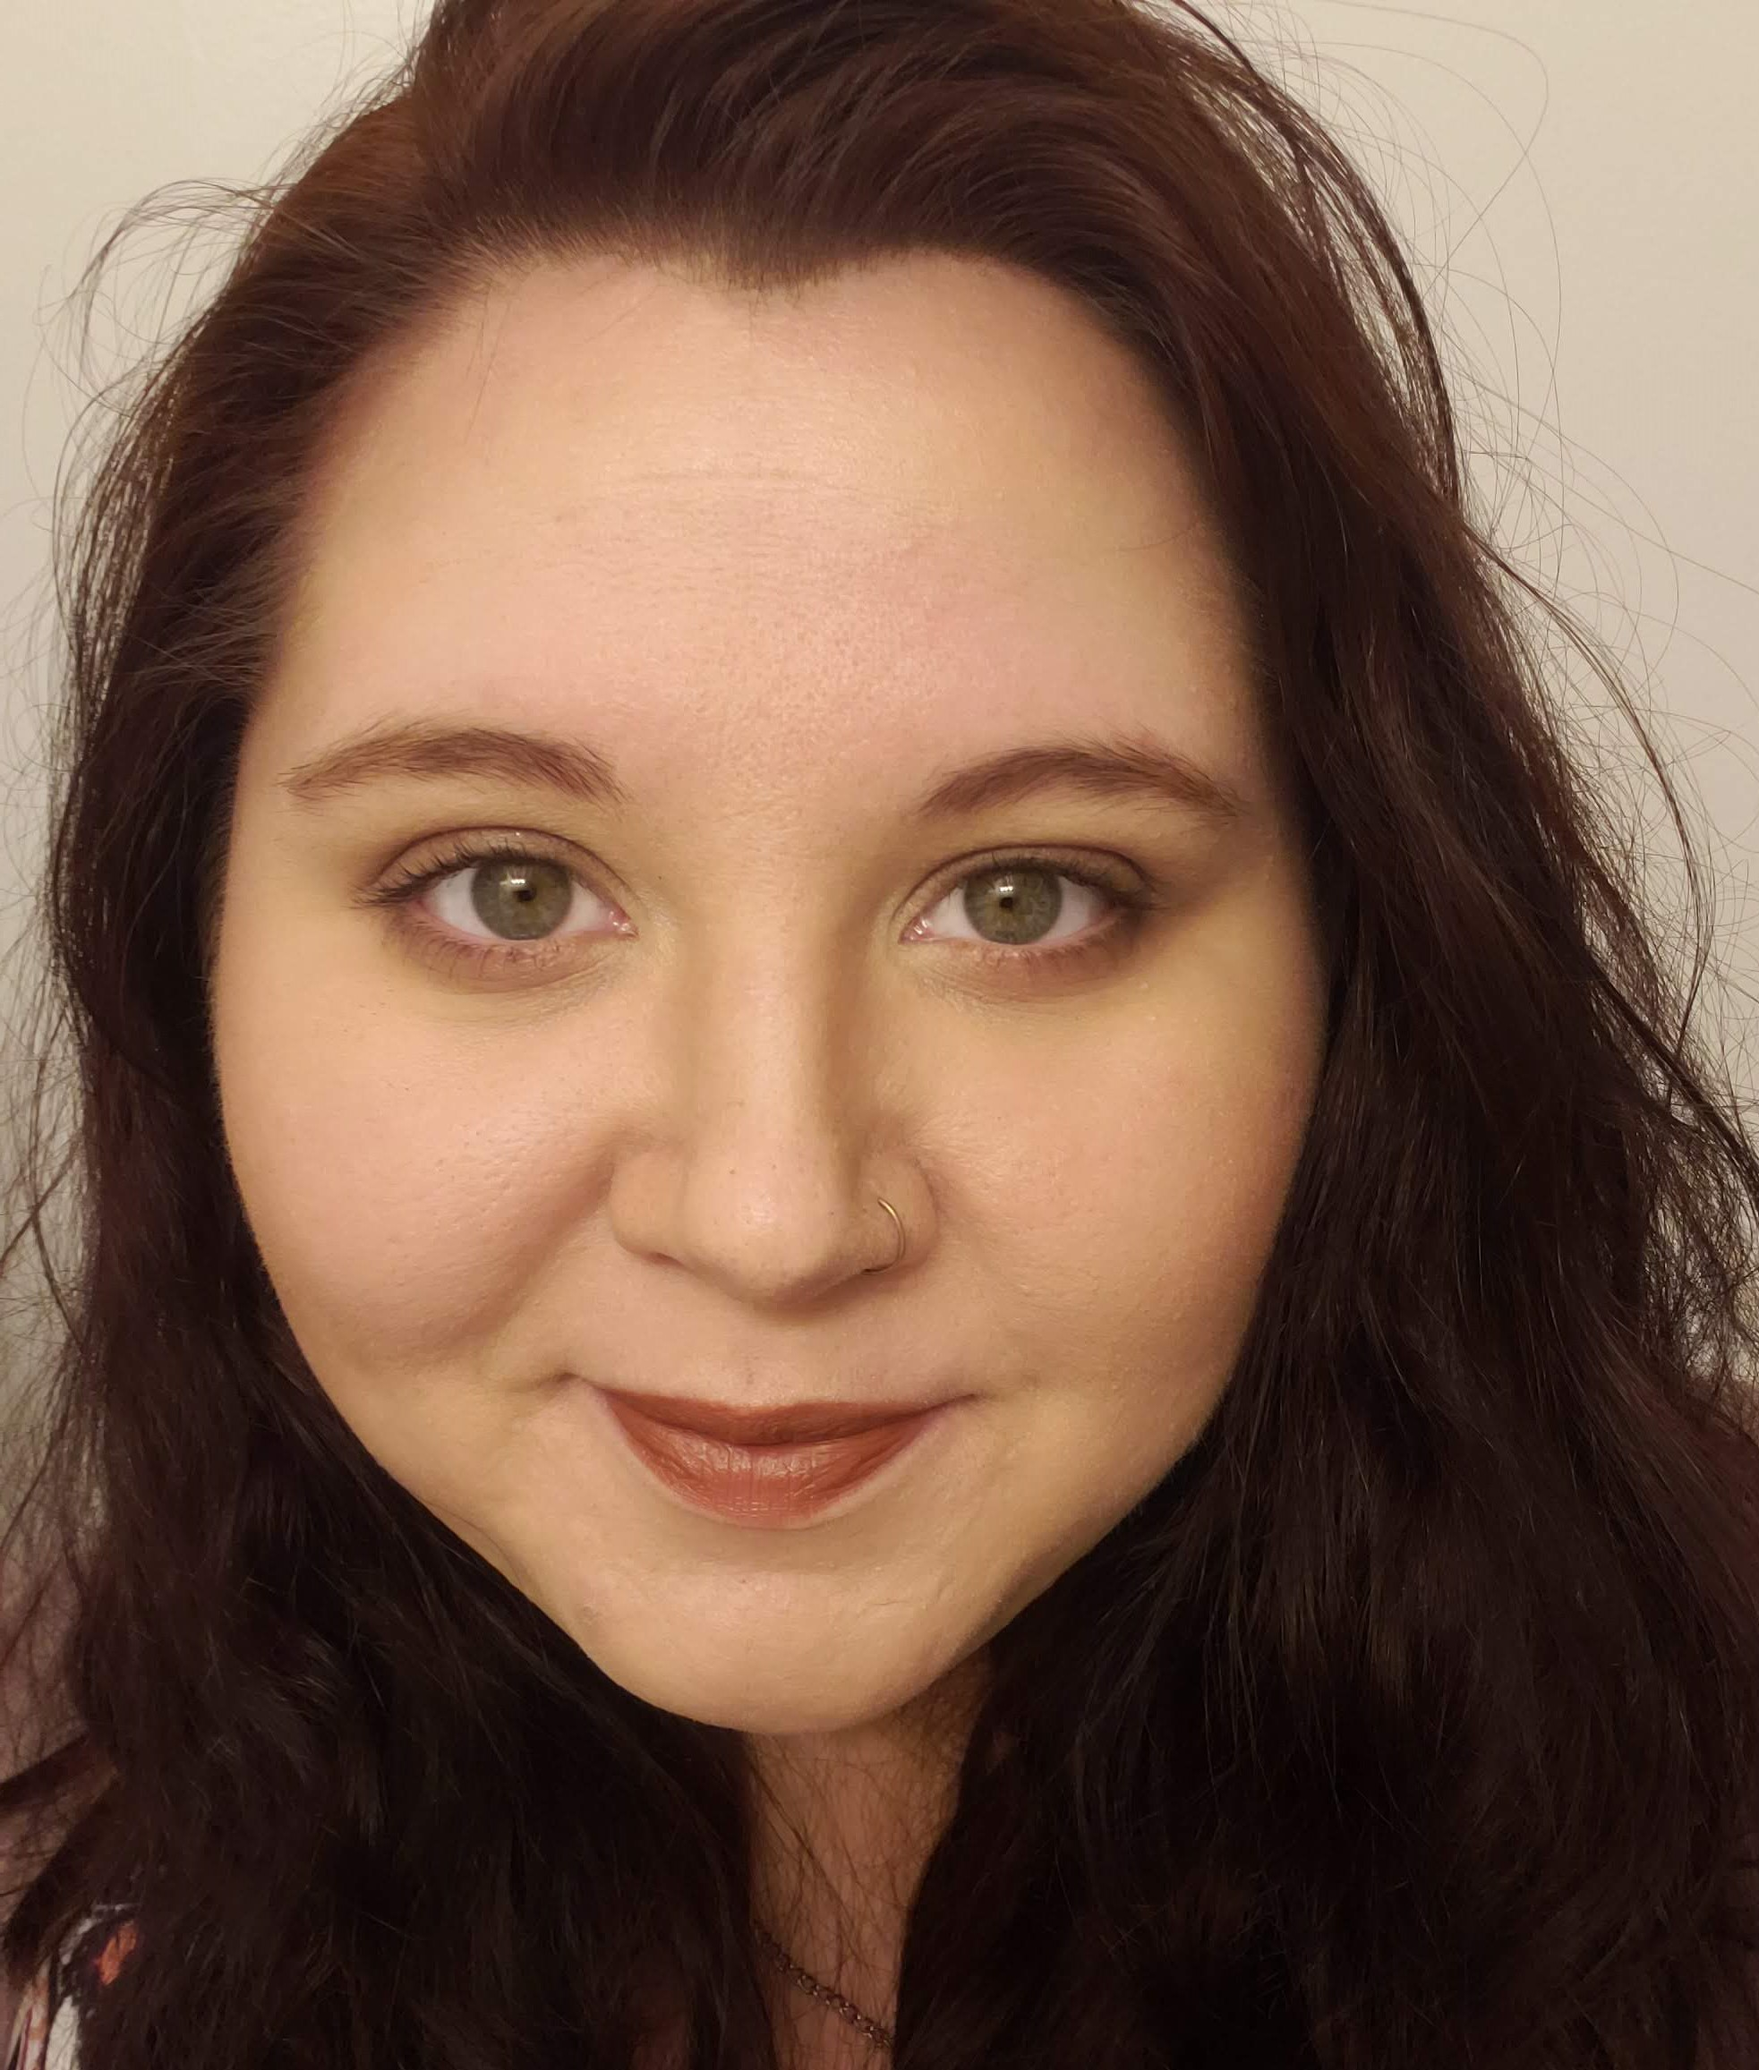
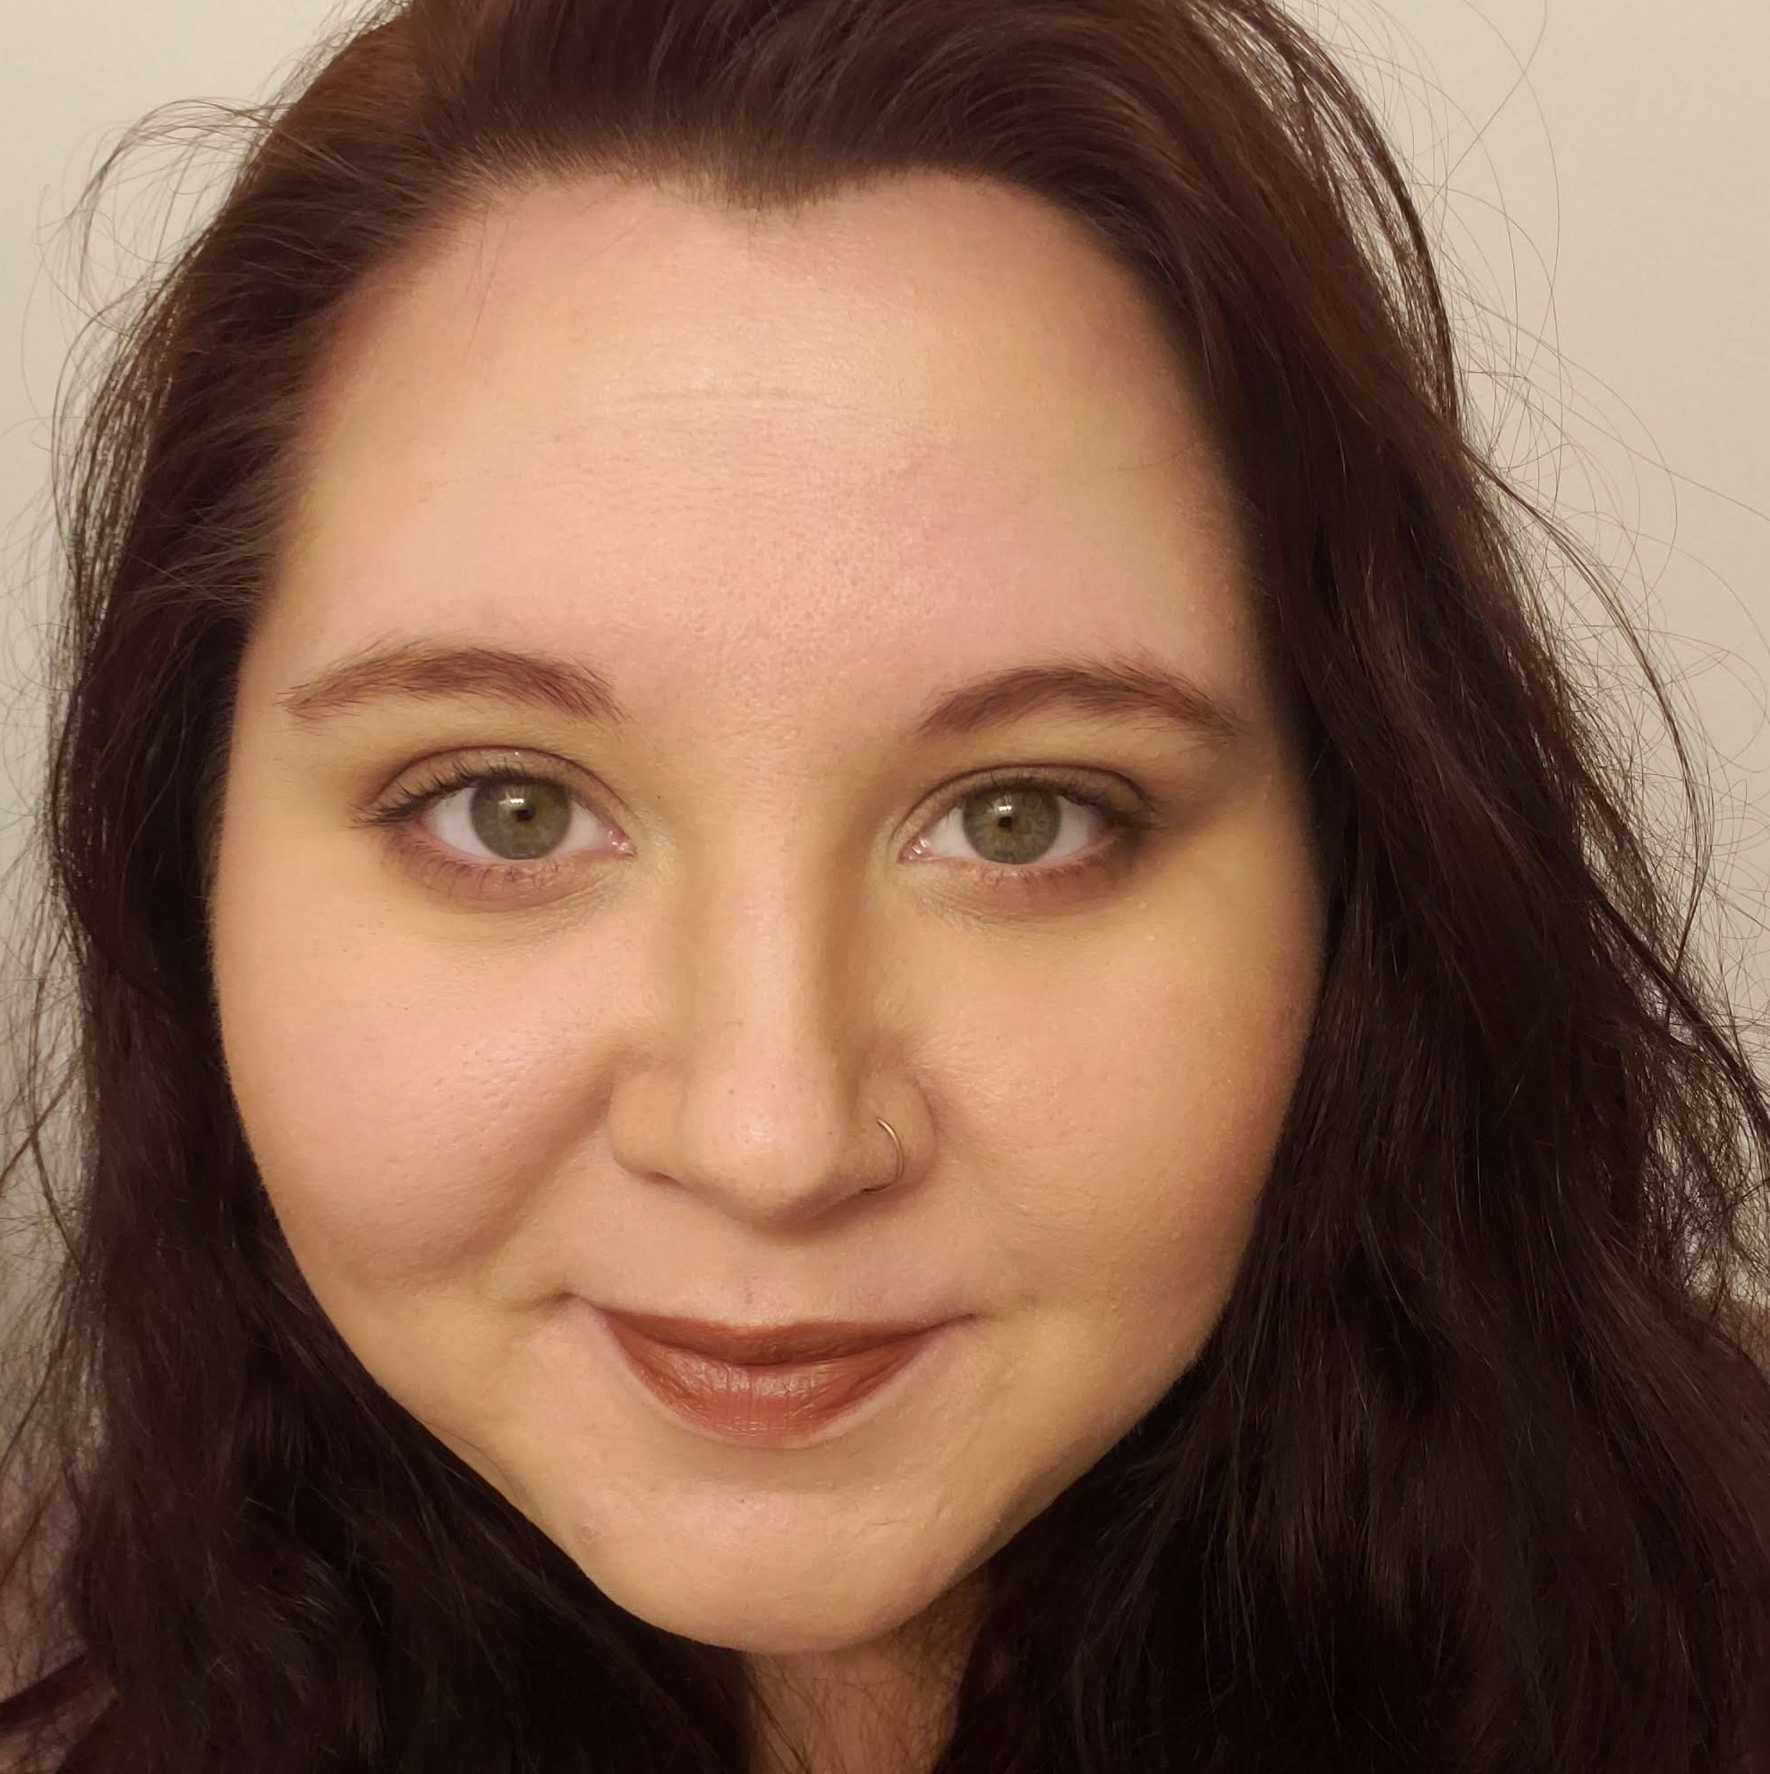
added some js formatting

diff --git a/index_v1.3.html b/index_v1.3.html
@@ -5,6 +5,7 @@
 <meta charset="UTF-8"> <!--unicode encoding-->
 <meta name="viewport" content="width=device-width, initial-scale=1">
 <link rel="stylesheet" href="style.css">
+<script src="script.js"></script>
 </head>
 <body>
 
@@ -16,81 +17,60 @@
   <a href="#" class="active">Home</a>
   <a href="https://github.com/SavLM">GithHub</a>
   <a href="https://www.linkedin.com/in/savannah-mclaurin/">LinkedIn</a>
-  <a href="mailto:savleighm@outlook.com" class="right">Contact Me</a>-->
+  <a href="mailto:savleighm@outlook.com" class="right">Contact Me</a>
 </div>
 
 <div class="row">
   <div class="side">
-    <img src="images\moi.jpg" style="height:200px;"></img>
+    <img class="big_img" src="images\moi.jpg"></img>
   </div>
   <div class="main">
-    <p></p>
     <div id="resume_content">
-      <h1>EDUCATION</h1>
-        <h2>University of Virginia School of Engineering and Applied Science | Class of 2019</h2>
-          <p>Bachelor of Science in Computer Engineering</p>
-        <h2>Jackson River Governor’s School | Class of 2013</h2>
-          <p>2-year program at Dabney S. Lancaster Community College</p>
-        <h2>Bath County High School | Class of 2013</h2>
-          <p>Graduated Salutatorian with an Advanced Diploma</p>
-
-      <br>
-      <br>
-
-      <h1>WORK EXPERIENCE</h1>
-      <h2>Information Technology Assistant Jr. | Federal Reserve Information Technology August 15, 2017 – January 15, 2018</h2>
-        <ul>
-          <li>Project Coordinator and Administrative Assistant for the Federal Reserve’s National IT internship program</li>
-          <li>Aided project transitioning Fed applications and services to a new, secure environment</li>
-          <li>
-            <ul>
-              <li>Performed administrative tasks for Scrum teams</li>
-              <li>Improved organizational tools and documented standards/processes</li>
-              <li>Prepared communications material for senior leadership</li>
-              <li>Transcribed important discussions and outlined/tracked action items</li>
-            </ul>
-          </li>
-        </ul>
-      <h2>Technical Project Assistant | University of Virginia Career Center May 17, 2016 – August 1, 2016</h2>
-        <ul>
-          <li>Assistant for the UVA Career Center IT department</li>
-          <li>Supported the implementation and organization of a new recruiting platform</li>
-          <li>
-            <ul>
-              <li>Aided with the extraction, synthesis, and management of large data sets for transition to new platform</li>
-              <li>Assisted with the development of student/staff/employer training materials</li>
-            </ul>
-          </li>
-        </ul>
-      <h2>Kids Club Attendant | The Omni Homestead Resort December 3, 2011 – June 13, 2015</h2>
-        <ul>
-          <li>3½ years as a Daycare Counselor at the Omni Homestead Resort</li>
-        </ul>
-
-      <br>
-      <br>
-
-      <h1>SKILLS</h1>
-        <h2>Languages</h2>
-          <p>C++, C, Java, Python, CSS, HTML, JavaScript, MySQL, PHP, x86 Assembly</p>
-        <h2>Hardware</h2>
-          <p>Microcontrollers, Designing PCBs,  Hardware testing devices: Oscilloscope, Multisim, Digital Multimeter, Virtual Bench</p>
-        <h2>Applications</h2>
-          <p>JIRA, SharePoint, Visio, Multisim, MATLAB, Logisim, Eclipse, Emacs, Vim, Microsoft Office, Django Framework, Some familiarity with Microsoft Azure Cloud and with AWS</p>
-        <h2>Project Management</h2>
-          <p>Risk and Issue tracking, Action Item logging,  User Story writing, Scribing for meetings, Creating Gantt Charts</p>
-
-      <br>
-      <br>
-
-      <h1>LEADERSHIP/TEAM EXPERIENCE</h1>
-        <h2>Capstone Project Team Member (Fall of 2016)</h2>
-          <p>5-month long Senior Project with a team of 4 other Computer/Electrical Engineering students developing a vest designed to assist individuals with visual impairments navigate the real world using spatial simulation powered by a system of infrared sensors causing haptic feedback.</p>
-        <h2>Cavalier Marching Band Member (2013-2014)</h2>
-          <p>Marched 2 seasons with 300+ other UVA students during UVA Football games and attended a leadership camp for improving teamwork and leadership skills.</p>
-        <h2>Engineering Project Team Member (Fall of 2013)</h2>
-          <p>Worked with 47 other individuals to address the problems with current youth football helmets in preventing concussions among youth players by creating a helmet to better protect the players’ heads and necks.</p>
     </div>
+    <script>
+      var output = "";
+      var l = education.length;
+      output+="<h1>EDUCATION</h1>";
+      for (i=0; i < l; i++){
+        output+="<h2>" + education[i].name + " | " + education[i].date + "</h2>";
+        output+="<p>" + education[i].descr + "</p>";
+      }
+      output+="<br><br>";
+
+      l = work.length;
+      output+="<h1>WORK EXPERIENCE</h1>";
+      for (i=0; i < l; i++){
+        output+="<h2>" + work[i].title + " | " + work[i].company + work[i].start + " - " + work[i].end + "</h2>";
+        output+=work[i].descr;
+      }
+
+      output+="<br><br>";
+
+      l = skill.length;
+      output+="<h1>SKILLS</h1>";
+      for (i=0; i < l; i++){
+        output+="<h2>" + skill[i].category + "</h2>";
+        output+="<p>";
+        var sl = skill[i].skills.length;
+        for (j=0; j < sl-1; j++){
+          output+=skill[i].skills[j] + ", ";
+        }
+        if(sl>0){
+          output+=skill[i].skills[sl-1];
+        }
+        output+="</p>";
+      }
+
+      output+="<br><br>";
+
+      l = leadership.length;
+      output+="<h1>LEADERSHIP</h1>";
+      for (i=0; i < l; i++){
+        output+="<h2>" + leadership[i].title + " (" + leadership[i].date + ")</h2>";
+        output+="<p>" + leadership[i].descr + "</p>";
+      }
+      document.getElementById('resume_content').innerHTML = output;
+    </script>
     <br>
   </div>
 </div>

diff --git a/script.js b/script.js
@@ -1,3 +1,104 @@
+var education = [
+  {
+    name:"University of Virginia School of Engineering and Applied Science",
+    date:"Class of 2019",
+    descr:"Bachelor of Science in Computer Engineering"
+  },
+  {
+    name:"Jackson River Governor’s School",
+    date:"Class of 2013",
+    descr:"2-year program at Dabney S. Lancaster Community College"
+  },
+  {
+    name:"Bath County High School",
+    date:"Class of 2013",
+    descr:"Graduated Salutatorian with an Advanced Diploma"
+  }
+];
+
+var work = [
+  {
+    title:"Information Technology Assistant Jr.",
+    company:"Federal Reserve Information Technology",
+    start:"August 15, 2017",
+    end:"January 15, 2018",
+    descr:"<ul> \
+      <li>Project Coordinator and Administrative Assistant for the Federal Reserve’s National IT internship program</li> \
+      <li>Aided project transitioning Fed applications and services to a new, secure environment</li> \
+      <li> \
+        <ul> \
+          <li>Performed administrative tasks for Scrum teams</li> \
+          <li>Improved organizational tools and documented standards/processes</li> \
+          <li>Prepared communications material for senior leadership</li> \
+          <li>Transcribed important discussions and outlined/tracked action items</li> \
+        </ul> \
+      </li> \
+    </ul>"
+  },
+  {
+    title:"Technical Project Assistant",
+    company:"University of Virginia Career Center",
+    start:"May 17, 2016",
+    end:"August 1, 2016",
+    descr:"<ul> \
+      <li>Assistant for the UVA Career Center IT department</li> \
+      <li>Supported the implementation and organization of a new recruiting platform</li> \
+      <li> \
+        <ul> \
+          <li>Aided with the extraction, synthesis, and management of large data sets for transition to new platform</li> \
+          <li>Assisted with the development of student/staff/employer training materials</li> \
+        </ul> \
+      </li> \
+    </ul>"
+  },
+  {
+    title:"Kids Club Attendant",
+    company:"The Omni Homestead Resort",
+    start:"December 3, 2011",
+    end:"June 13, 2015",
+    descr:"<ul> \
+      <li>3½ years as a Daycare Counselor at the Omni Homestead Resort</li> \
+    </ul>"
+  }
+];
+
+var skill = [
+  {
+    category:"Languages",
+    skills:["C++", "C", "Java", "Python", "CSS", "HTML", "JavaScript", "MySQL", "PHP", "x86 Assembly"]
+  },
+  {
+    category:"Hardware",
+    skills:["Microcontrollers", "Designing PCBs",  "Hardware testing devices: Oscilloscope, Multisim, Digital Multimeter, Virtual Bench"]
+  },
+  {
+    category:"Applications",
+    skills:["JIRA", "SharePoint", "Visio", "Multisim", "MATLAB", "Logisim", "Eclipse", "Emacs", "Vim", "Microsoft Office", "Django Framework", "Some familiarity with Microsoft Azure Cloud and with AWS"]
+  },
+  {
+    category:"Project Management",
+    skills:["Risk and Issue tracking", "Action Item logging",  "User Story writing", "Scribing for meetings", "Creating Gantt Charts"]
+  }
+];
+
+var leadership = [
+  {
+    title:"Capstone Project Team Member",
+    date:"Fall of 2016",
+    descr:"5-month long Senior Project with a team of 4 other Computer/Electrical Engineering students developing a vest designed to assist individuals with visual impairments navigate the real world using spatial simulation powered by a system of infrared sensors causing haptic feedback."
+  },
+  {
+    title:"Cavalier Marching Band Member",
+    date:"2013-2014",
+    descr:"Marched 2 seasons with 300+ other UVA students during UVA Football games and attended a leadership camp for improving teamwork and leadership skills."
+  },
+  {
+    title:"Engineering Project Team Member",
+    date:"Fall of 2013",
+    descr:"Worked with 47 other individuals to address the problems with current youth football helmets in preventing concussions among youth players by creating a helmet to better protect the players’ heads and necks."
+  },
+]
+
 function myFunction() {
  document.getElementById("demo").innerHTML = "Paragraph changed.";
 }

diff --git a/style.css b/style.css
@@ -4,16 +4,16 @@
 
 /* Style the body */
 body {
-  font-family: Arial, Helvetica, sans-serif;
+  font-family: Helvetica, Arial, sans-serif;
   margin: 0;
 }
 
 /* Header/logo Title */
 .header {
-  padding: 80px;
+  padding: 30px;
   text-align: center;
-  background: #1abc9c;
-  color: white;
+  background: #fff;
+  color: #000;
 }
 
 /* Increase the font size of the heading */
@@ -24,7 +24,7 @@ body {
 /* Sticky navbar - toggles between relative and fixed, depending on the scroll position. It is positioned relative until a given offset position is met in the viewport - then it "sticks" in place (like position:fixed). The sticky value is not supported in IE or Edge 15 and earlier versions. However, for these versions the navbar will inherit default position */
 .navbar {
   overflow: hidden;
-  background-color: #333;
+  background-color: #000;
   position: sticky;
   position: -webkit-sticky;
   top: 0;
@@ -40,7 +40,6 @@ body {
   text-decoration: none;
 }
 
-
 /* Right-aligned link */
 .navbar a.right {
   float: right;
@@ -48,13 +47,14 @@ body {
 
 /* Change color on hover */
 .navbar a:hover {
+  transition: all 0.3s ease;
   background-color: #ddd;
   color: black;
 }
 
 /* Active/current link */
 .navbar a.active {
-  background-color: #666;
+  background-color: #008000;
   color: white;
 }
 
@@ -71,7 +71,7 @@ body {
 .side {
   -ms-flex: 30%; /* IE10 */
   flex: 30%;
-  background-color: #f1f1f1;
+  background-color: #fff;
   padding: 20px;
 }
 
@@ -79,15 +79,16 @@ body {
 .main {
   -ms-flex: 70%; /* IE10 */
   flex: 70%;
-  background-color: white;
+  background-color: #fff;
   padding: 20px;
 }
 
 /* Fake image, just for this example */
-.fakeimg {
+.big_img {
   background-color: #aaa;
-  width: 100%;
-  padding: 20px;
+  max-width: 75%;
+  height: auto;
+  padding: 0px;
 }
 
 /* Footer */

diff --git a/index.html b/index.html
@@ -22,7 +22,7 @@
 
 <div class="row">
   <div class="side">
-    <img src="images\moi.jpg" style="height:200px;"></img>
+    <img src="images\moi.jpg"></img>
   </div>
   <div class="main">
     <h2><b>Wait! I'm working on shit, come back later</b></h2>
